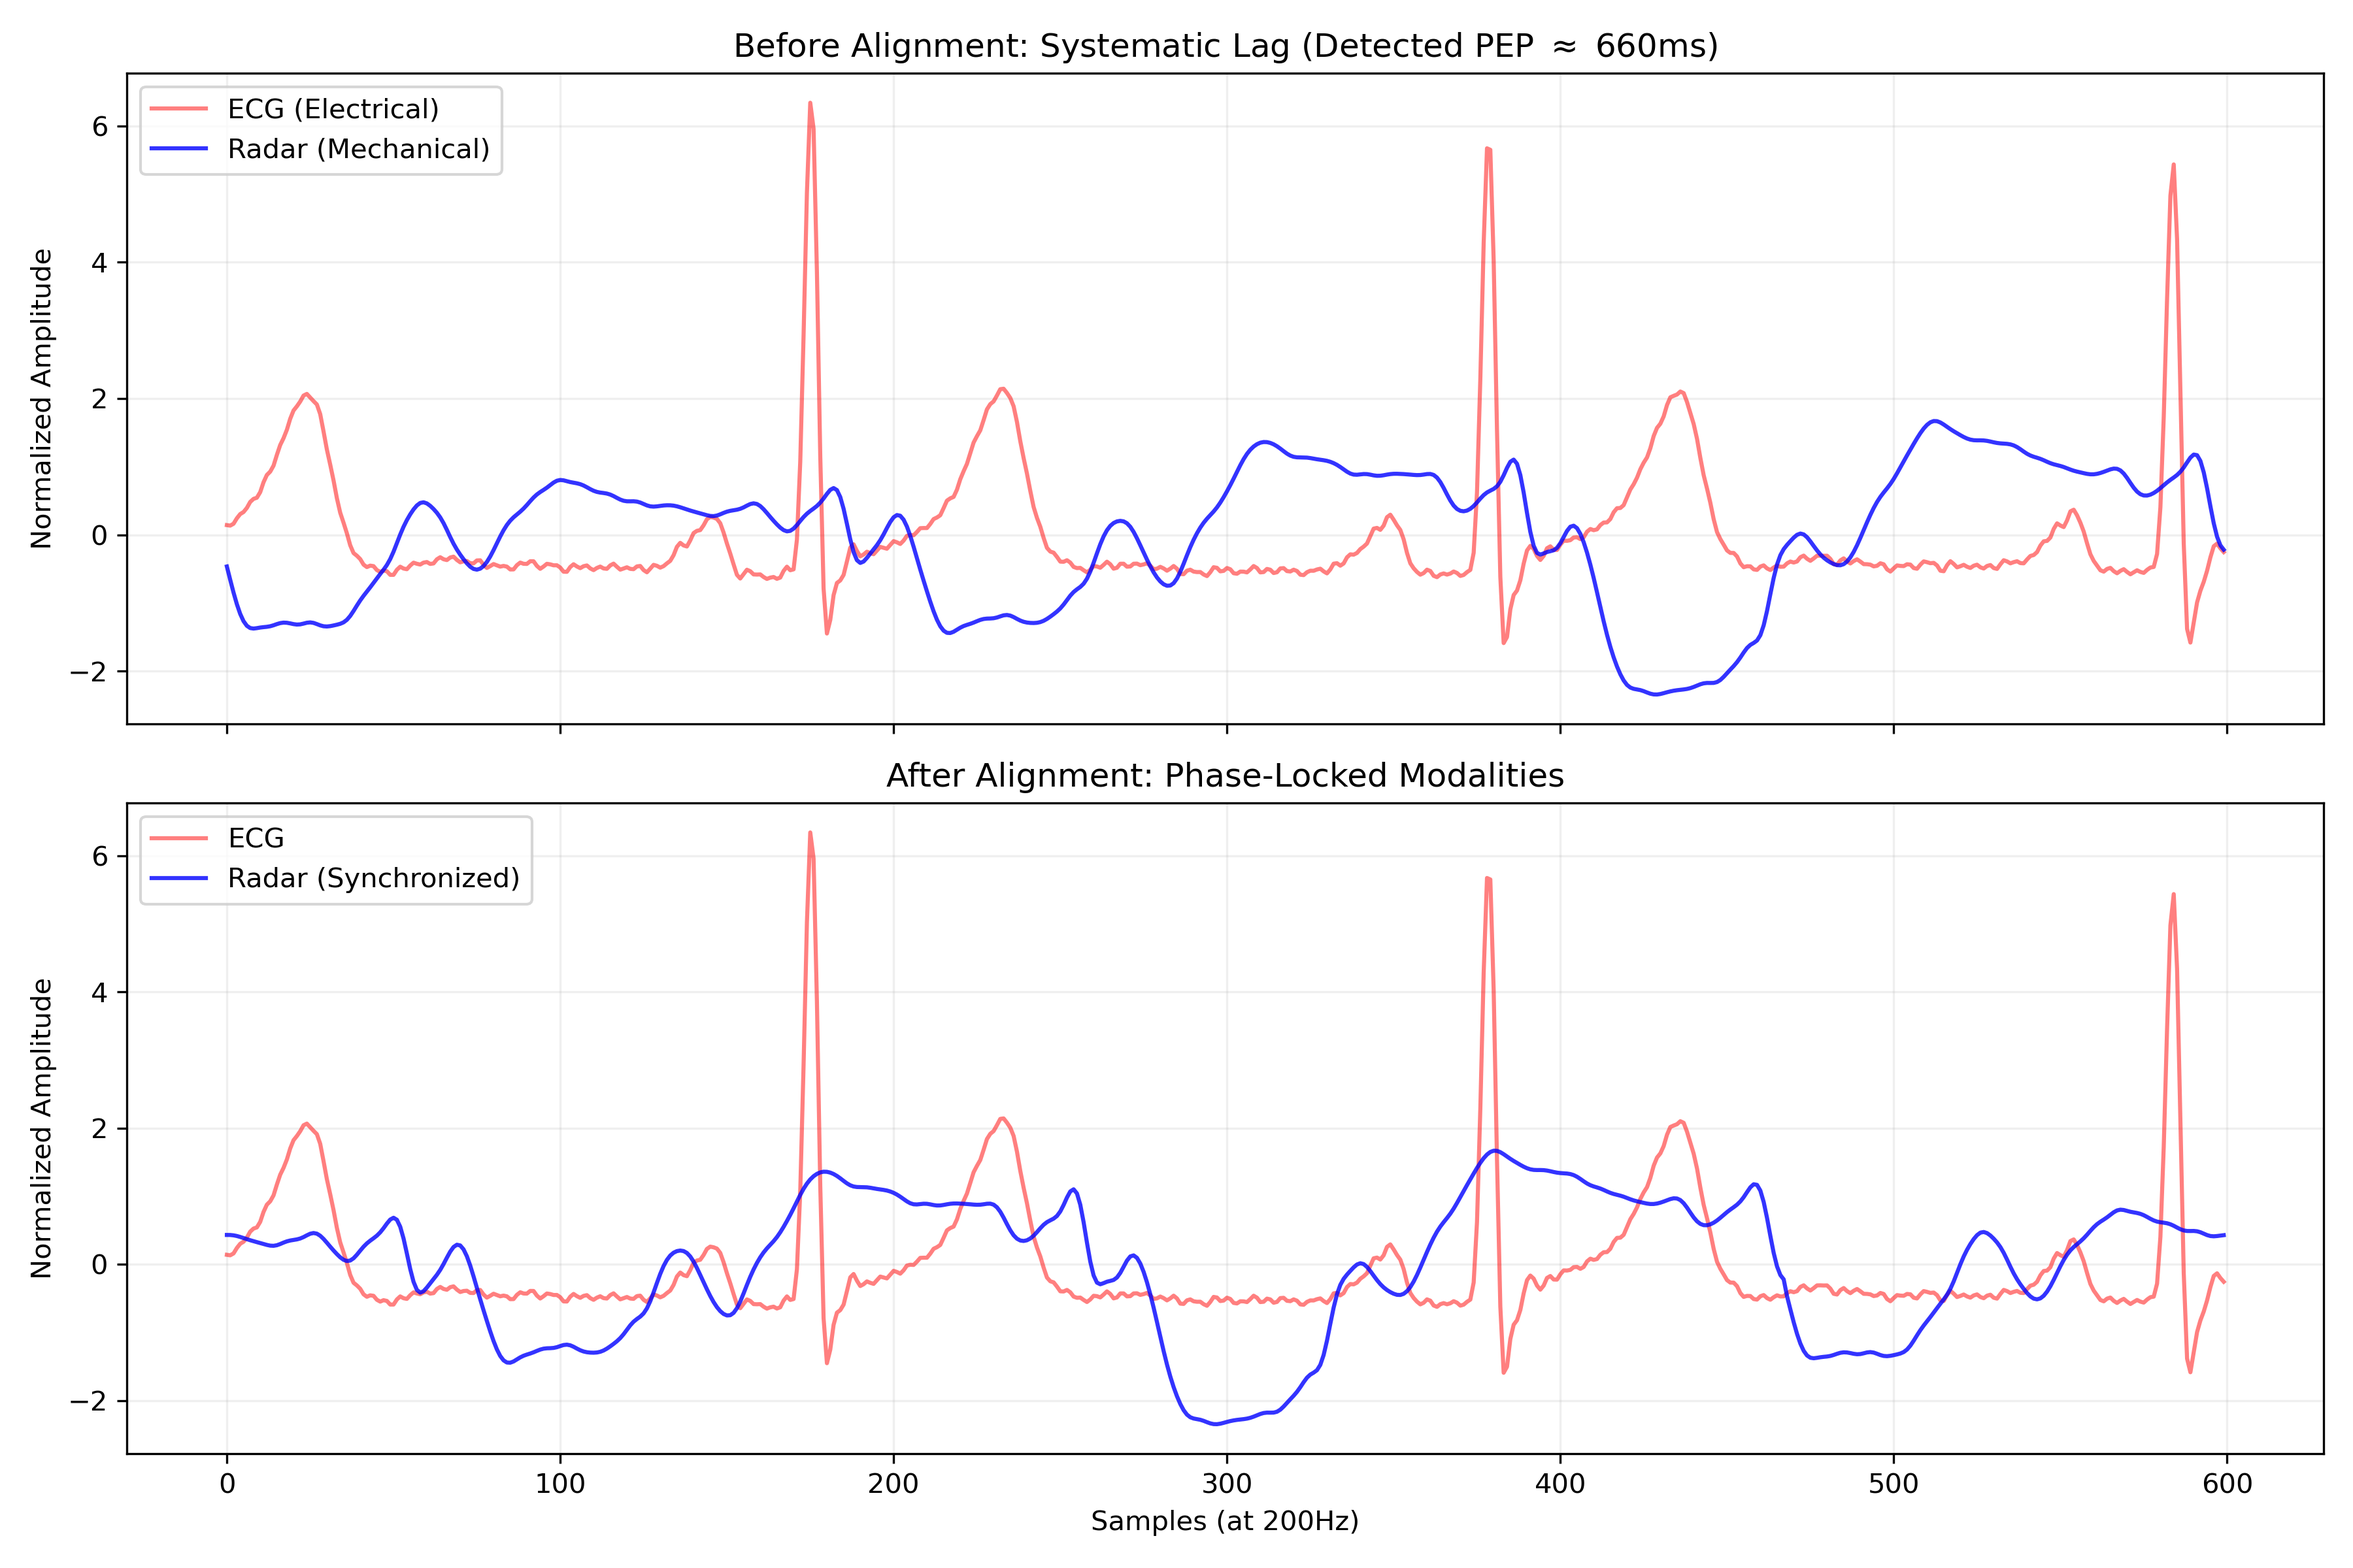
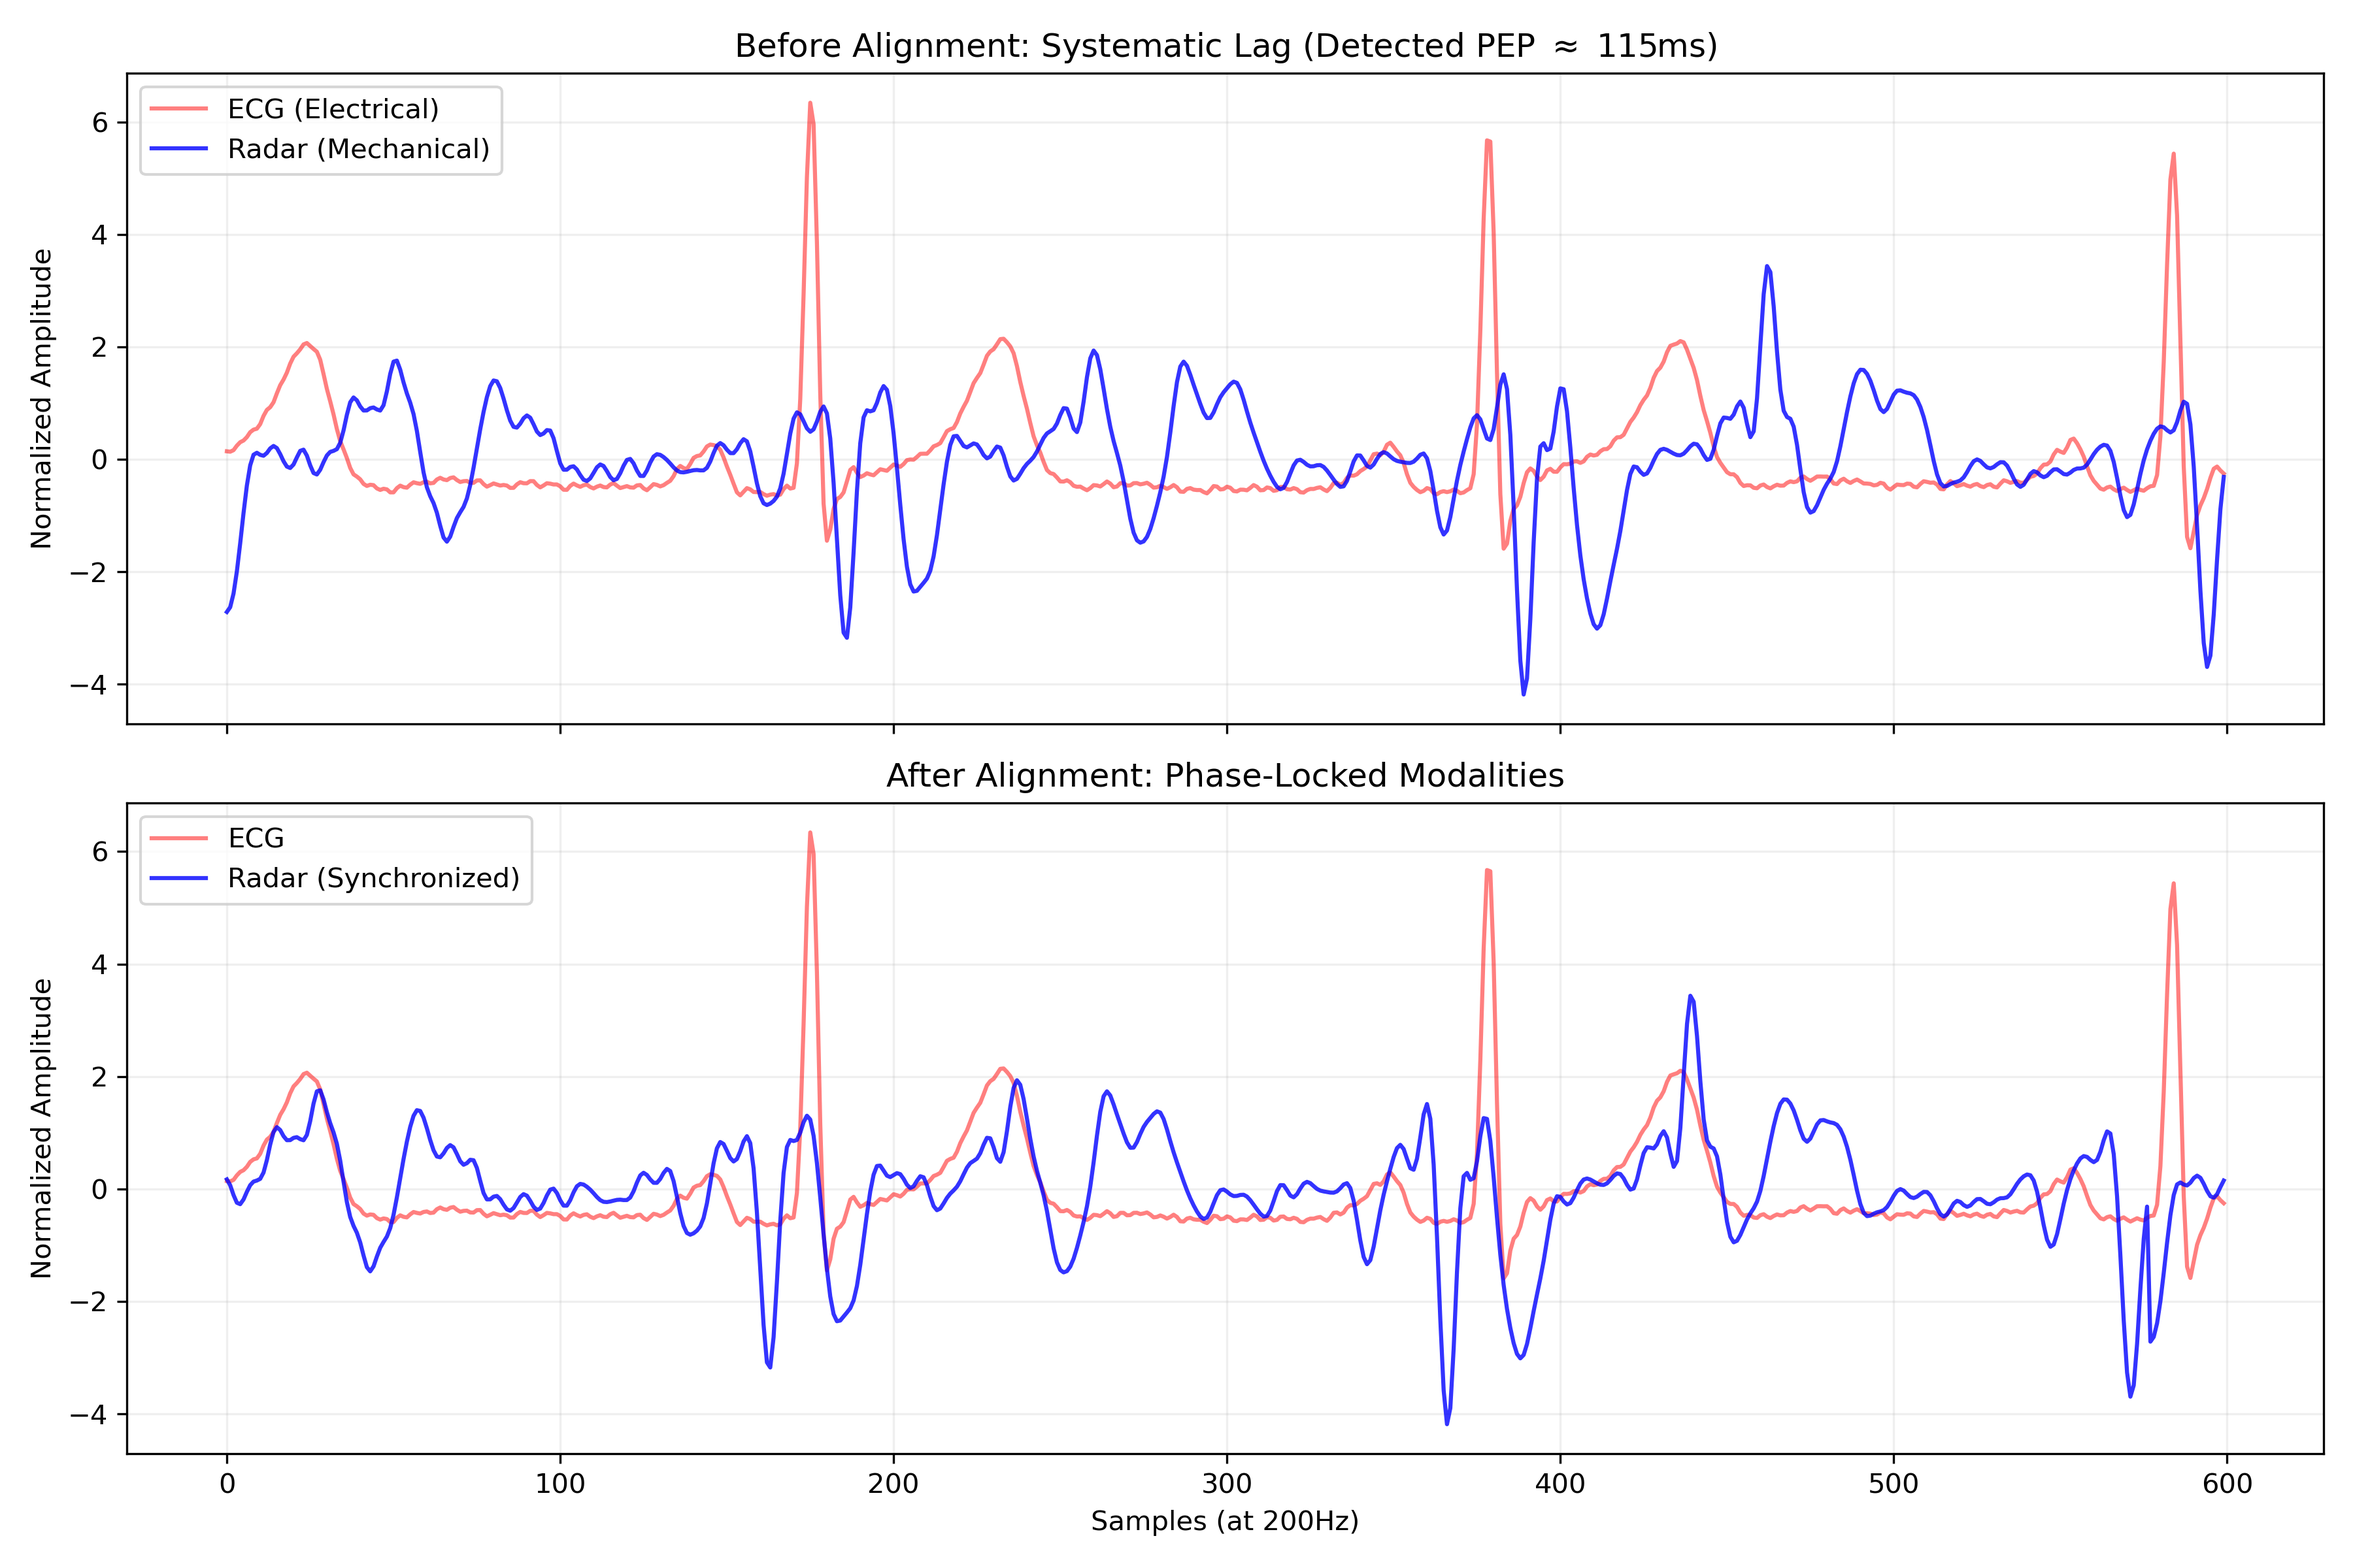
update

diff --git a/check_h5.py b/check_h5.py
@@ -1,0 +1,72 @@
+import h5py
+import numpy as np
+import os
+import matplotlib
+# 关键：强制使用无界面后端，防止 SSH 环境下绘图失败
+matplotlib.use('Agg') 
+import matplotlib.pyplot as plt
+
+# ================== 配置区 ==================
+H5_PATH = "data_preprocessing/processed_to_h5/experiment_A_SubjectIndependent/train.h5"
+# 明确指定要检查的样本索引
+VISUALIZE_IDXS = [0, 1, 8] 
+# ============================================
+
+def verify_and_plot(path):
+    if not os.path.exists(path):
+        print(f"❌ 错误: 找不到文件 {path}")
+        return
+
+    print(f"🔍 正在读取数据集: {path}")
+    
+    with h5py.File(path, 'r') as f:
+        print("\n" + "="*80)
+        print(f"{'Sample':<8} | {'Type':<8} | {'Mean':<10} | {'Min':<10} | {'Max':<10} | {'Status'}")
+        print("-" * 80)
+
+        # 1. 统计数值检查 (前10个)
+        num_to_check = min(10, f['radar'].shape[0])
+        for i in range(num_to_check):
+            for key in ['radar', 'ecg', 'mask']:
+                sample = f[key][i].flatten()
+                s_mean, s_min, s_max = np.mean(sample), np.min(sample), np.max(sample)
+                status = "✅ OK"
+                if key in ['ecg', 'mask'] and (s_min < -0.01 or s_max > 1.01):
+                    status = "❌ 范围错误"
+                elif key == 'radar' and abs(s_mean) > 0.1:
+                    status = "⚠ 偏移预警"
+                print(f"{i:<8} | {key:<8} | {s_mean:>10.4f} | {s_min:>10.4f} | {s_max:>10.4f} | {status}")
+            print("-" * 80)
+
+        # 2. 绘图验证逻辑
+        print(f"\n🎨 正在为样本 {VISUALIZE_IDXS} 生成可视化图...")
+        for idx in VISUALIZE_IDXS:
+            if idx >= f['radar'].shape[0]: continue
+            
+            radar = f['radar'][idx].flatten()
+            ecg = f['ecg'][idx].flatten()
+            
+            fig, ax1 = plt.subplots(figsize=(12, 5))
+            
+            # 绘制绿色雷达速度信号
+            ax1.set_ylabel('Radar Velocity (Z-Score)', color='tab:green')
+            ax1.plot(radar, color='tab:green', label='Radar Input', alpha=0.8)
+            ax1.tick_params(axis='y', labelcolor='tab:green')
+            ax1.grid(True, alpha=0.2)
+
+            # 绘制红色 ECG 标签
+            ax2 = ax1.twinx()
+            ax2.set_ylabel('ECG Label (0-1)', color='tab:red')
+            ax2.plot(ecg, color='tab:red', linestyle='--', label='ECG Label', alpha=0.7)
+            ax2.tick_params(axis='y', labelcolor='tab:red')
+
+            plt.title(f"Sample {idx} - Radar vs ECG Alignment Check")
+            
+            # 强制保存到当前运行的目录下，方便查找
+            save_name = f"check_sample_{idx}.png"
+            plt.savefig(save_name)
+            plt.close()
+            print(f"  -> ✅ 图片已保存至: {os.getcwd()}/{save_name}")
+
+if __name__ == "__main__":
+    verify_and_plot(H5_PATH)

diff --git a/data_preprocessing/build_dataset.py b/data_preprocessing/build_dataset.py
@@ -148,6 +148,14 @@ def process_subject(file_path):
     for start in range(0, len(radar_clean) - win_pts, stride_pts):
         end = start + win_pts
         
+        seg_radar = z_score_normalize(radar_aligned[start:end])
+        
+        # 新增：剔除离群值片段 (峰值过大) # 检查是否存在绝对值超过 15 的极端伪影 (比如Sample 0)
+        if np.max(np.abs(seg_radar)) > 15:
+            # print(f"  [QC] Dropping segment due to motion artifact (peak: {np.max(np.abs(seg_radar)):.2f})")
+            continue
+        
+        
         # SQI 检查 (基于对齐后的 R peaks) 
         seg_r_peaks = [p - start for p in r_peaks if start <= p < end]
         if not quality_control.check_sqi(seg_r_peaks, win_pts, Config.FS_TARGET, Config.SQI_HR_MIN, Config.SQI_HR_MAX):

diff --git a/README.md b/README.md
@@ -84,7 +84,16 @@
 
 ## 4. 数据流水线与预处理 (Data Pipeline & Preprocessing)
 
-本项目设计了一套具有生理一致性保障的预处理流程，旨在消除异构模态间的域差异并提取关键生理特征。Train samples: 4501, Test samples: 613
+本项目设计了一套具有生理一致性保障的预处理流程，旨在消除异构模态间的域差异并提取关键生理特征。
+[Experiment A Split]: Total Subjects: 30; Valid Subjects: 21; Rejected Subjects (Low Quality): [3, 6, 10, 13, 16, 19, 22, 24, 26]
+  Train Subjects (17): [1, 2, 4, 5, 7, 8, 9, 11, 12, 14, 15, 17, 18, 20, 21, 23, 25]; Test Subjects  (4): [27, 28, 29, 30]
+  train samples: 4488 samples; test samples: 605 samples
+
+[Experiment B Split]
+  Total Segments: 5093
+  Train Segments: 4074
+  Test Segments : 1019
+Train sample: 4074; test samples: 1019
 
 ### 4.0 核心创新：Ground Truth 构建 (`src/ecg_dsp.py`)
 为了监督 Anchor Branch，构建了 `generate_anchor_mask` 函数：
